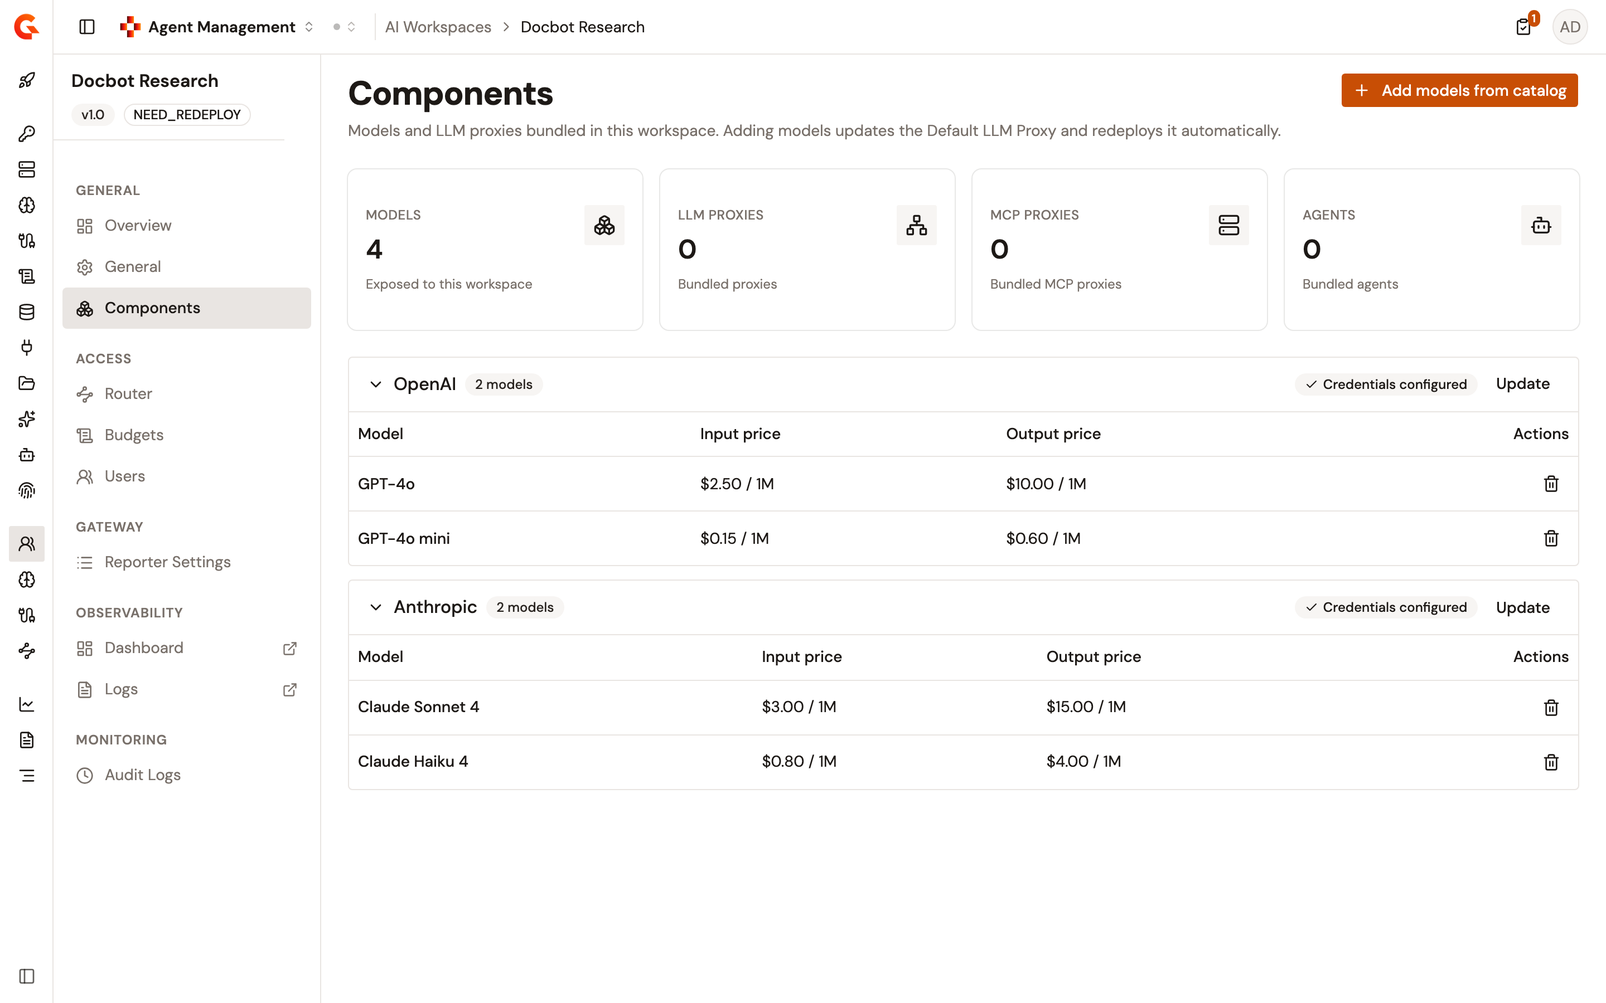
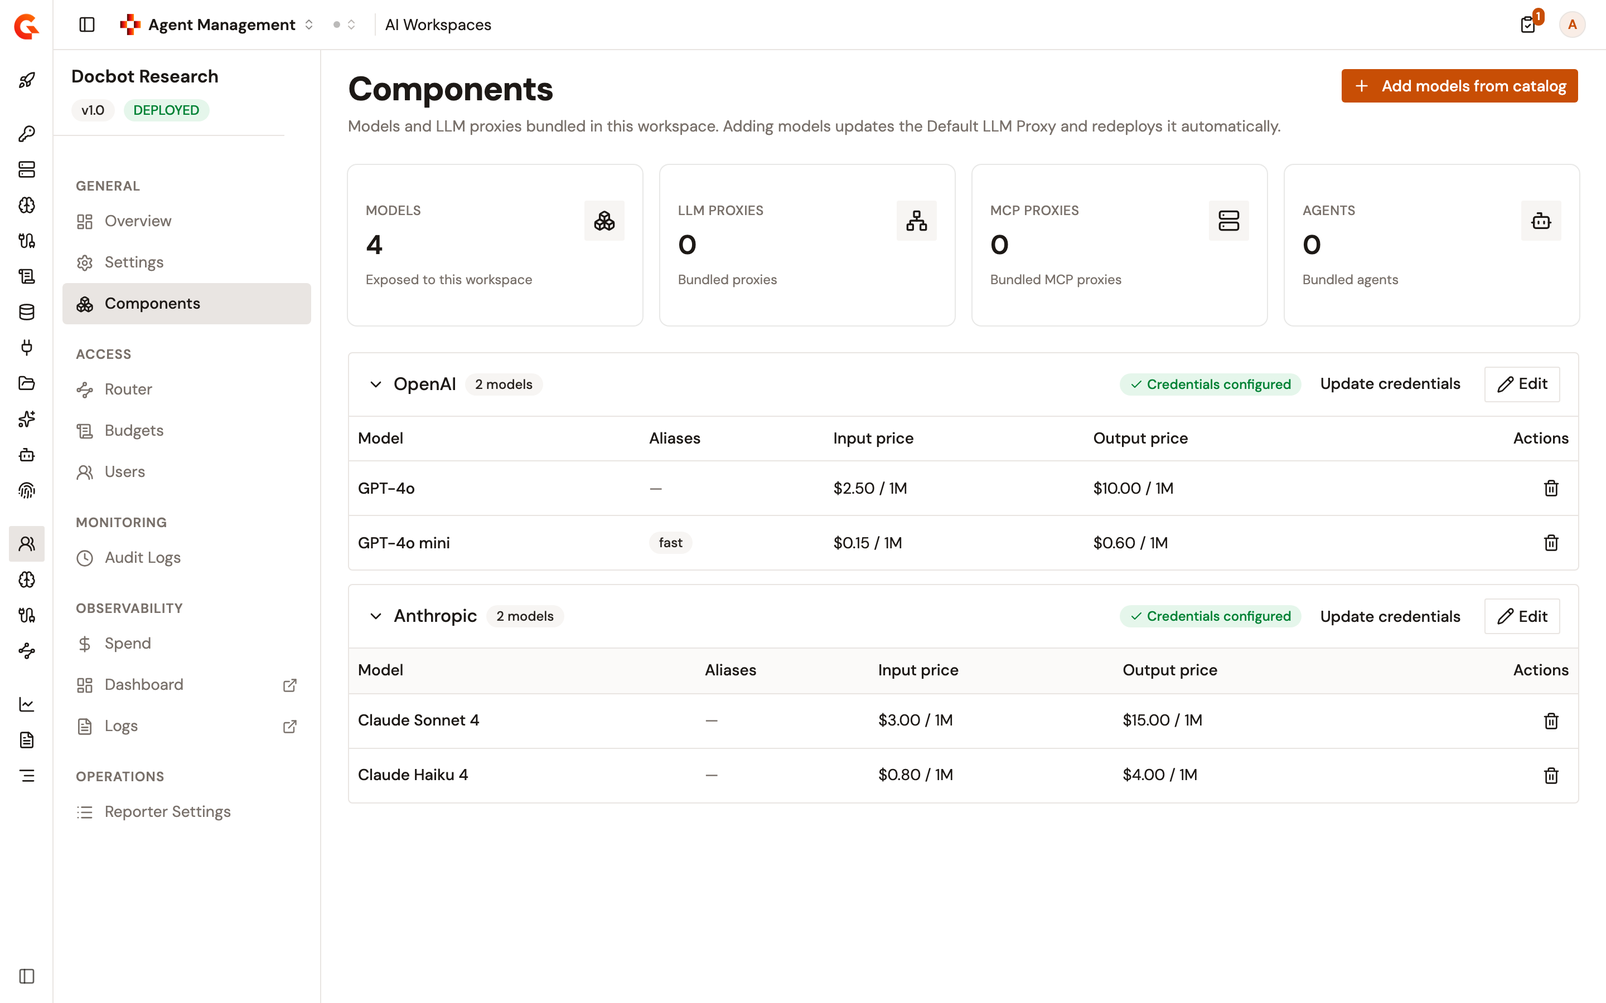
docs(gamma): document the AI Workspace router and AI Routing (AIAM-76)
Add the Router page of an AI Workspace and the AI Routing policy, which
routes a member's requests by the share of their budget spent. Add model
aliases to the Components page, link the budgets page to the router, and
add the 4.13 release-notes entry. Capture the router, its Configuration
panel and Model list, and recapture the Components page and the AI
Workspaces list from a local 4.13 stack with synthetic data.

diff --git a/docs/gamma/4.13/agent-management/build/configure-ai-workspace-routing.md b/docs/gamma/4.13/agent-management/build/configure-ai-workspace-routing.md
@@ -1,0 +1,153 @@
+---
+hidden: false
+noIndex: false
+description: Route each AI Workspace request to a model chosen by how much of the member's budget is spent, and chain the policies every call of the workspace runs.
+---
+
+# Configure AI workspace routing
+
+The **Router** page of an AI Workspace holds the policies that run on every call to the workspace, whatever budget the member is on. An **AI Routing** step on that page chooses the model that serves a request from the share of the member's budget already spent. As a member spends, their requests move to the models you set for the next band. The cost budget still stops them at its ceiling. See [Manage AI workspace budgets](manage-ai-workspace-budgets.md).
+
+## How routing chooses a model
+
+An **AI Routing** step holds bands, ordered from a full budget to a spent one. Each band starts where the band above it stops, and lists the models it routes to:
+
+* A request goes to the first band whose limit is above the member's spent share. With a first band limited at `50`, members who have spent less than 50% of their budget are served by that band.
+* The last band has no limit and serves everything left.
+* The share counts the spend the budget has recorded plus an estimate for each of the member's calls still in progress, the current one included. A band can therefore apply earlier than the recorded spend alone suggests.
+* The model the band picks replaces the model named in the request, even a model the workspace doesn't hold. This applies on the `/chat/completions`, `/responses`, `/embeddings`, and `/count_tokens` paths alike, so a band of chat models also takes the members' `/embeddings` calls.
+* Only the model the band picks is called. The other models of the band aren't tried when that call fails.
+
+When a band lists several models, its strategy picks one per request. A band with no strategy selected rotates per request:
+
+<table>
+    <thead>
+        <tr>
+            <th width="260">Strategy</th>
+            <th>How the model is picked</th>
+        </tr>
+    </thead>
+    <tbody>
+        <tr>
+            <td><strong>Rotate per request (per gateway node)</strong></td>
+            <td>Each model in turn. Every gateway node keeps its own rotation.</td>
+        </tr>
+        <tr>
+            <td><strong>Weighted - share out by the weights below</strong></td>
+            <td>In proportion to each model's <strong>Weight</strong>. A model weighted <code>3</code> serves three times as many requests as a model weighted <code>1</code>. Only this strategy reads the weights.</td>
+        </tr>
+        <tr>
+            <td><strong>Random</strong></td>
+            <td>At random.</td>
+        </tr>
+    </tbody>
+</table>
+
+Two settings of the step cover the requests the bands don't decide:
+
+* **If the budget is unknown** applies when the spent share can't be read, for example when the budget's counter can't be reached. The default is **Route to the last band**. The other options are **Route to the first band** and **Leave the request on the model it asked for**.
+* **When a band has no models** defaults to **Leave the request on the model it asked for**. Choose **Reject the request with 503** to refuse the requests that reach a band with no models.
+
+If the step itself fails, the request goes to the model it asked for. A band that routes to a model the workspace no longer holds gets the same `model_not_found` refusal as a request that names an unknown model. See [What members can call](add-models-to-an-ai-workspace.md#what-members-can-call).
+
+## Open the Router page
+
+To open the **Router** page of a workspace, complete the following steps:
+
+1. From the Gamma console sidebar, open **Agent Management**.
+2. Under **Secure**, open **AI Workspaces**.
+3. Select the workspace.
+4. Under **Access**, click **Router**.
+
+    <figure><img src="../.gitbook/assets/gamma-aim-ai-workspace-router-empty.png" alt="The Router page of a workspace with no policies, showing the Policies list, the Request phase, Budget gate, Models, and Response phase boxes, and the Configuration panel"><figcaption><p>The Router page before any policy is added</p></figcaption></figure>
+
+A policy placed above **Models** runs on the request, after the **Budget gate** checks the member's budget. A policy placed below **Models** runs on the response. The arrows between the boxes set the order.
+
+## Add an AI Routing step
+
+To route requests by the share of budget spent, complete the following steps:
+
+1. In **Policies**, drag **AI Routing** onto the canvas above **Models**. The policy runs on the request only.
+2. Select the **AI Routing** box, and in **Configuration**, set **If the budget is unknown** and **When a band has no models**.
+
+    The form also lists **Bands**, but the band boxes on the canvas replace them when you save. Edit bands on the canvas.
+
+    <figure><img src="../.gitbook/assets/gamma-aim-ai-workspace-router-step-config.png" alt="The Configuration panel for the AI Routing step, with Runs on set to Request, the step name, the Enabled switch, and the Budget measure and If the budget is unknown settings"><figcaption><p>The Configuration panel of the AI Routing step</p></figcaption></figure>
+
+3. On the **AI Routing** box, click **Band**. Repeat for each band you need.
+4. In **Up to** on each band, set the share of the budget spent, as a percentage, where the band stops. A new band arrives with a limit already filled in. Give each band a higher limit than the band above it.
+5. On the last band, clear **Up to** or enter `100`. The band then reads **Everything left**.
+6. Optional: Enter a name for a band. The name replaces the band's default title, and the policy uses it in its logs.
+7. In **Strategy**, select how the band picks a model.
+8. Click **Model** on the band, and select a model. Repeat to add more. The list holds the models of the workspace and their aliases.
+
+    <figure><img src="../.gitbook/assets/gamma-aim-ai-workspace-router-model-menu.png" alt="The Model list open on the Economy band, listing the models of the workspace and the alias fast for GPT-4o mini"><figcaption><p>The Model list of a band</p></figcaption></figure>
+
+9. For the **Weighted - share out by the weights below** strategy, set the **Weight** of each model.
+10. Click **Save**.
+11. In the **This API is out of sync** banner, click **Deploy**.
+12. In the **Deploy your API** dialog, click **Deploy**.
+
+Saving writes the router to every budget of the workspace, and a budget you create later starts with it. Saving doesn't deploy, so the change reaches the gateway only when you deploy the workspace.
+
+When a budget carries routing that differs from the router, the page reports **Some budgets are running different routing** and names the budgets. The alert names only the budgets you can view, but saving rewrites every budget of the workspace.
+
+## Fix the messages that block Save
+
+**Save** stays unavailable while the canvas reports a problem, and while the **Configuration** form of the selected step holds an invalid value. A badge beside **Router** counts the problems, and its tooltip lists them:
+
+<table>
+    <thead>
+        <tr>
+            <th width="330">Message</th>
+            <th>Fix</th>
+        </tr>
+    </thead>
+    <tbody>
+        <tr>
+            <td><code>"&lt;box&gt;" leads to &lt;n&gt; boxes.</code></td>
+            <td>Keep one outgoing arrow on each box.</td>
+        </tr>
+        <tr>
+            <td><code>The chain never reaches Models.</code></td>
+            <td>Draw the arrows from <strong>Request phase</strong> through to <strong>Models</strong>.</td>
+        </tr>
+        <tr>
+            <td><code>The arrows loop back on themselves.</code></td>
+            <td>Remove the arrow that closes the loop.</td>
+        </tr>
+        <tr>
+            <td><code>"&lt;policy&gt;" is wired ahead of the Budget gate.</code></td>
+            <td>Move the policy after <strong>Budget gate</strong>.</td>
+        </tr>
+        <tr>
+            <td><code>"&lt;band&gt;" is limited at &lt;n&gt;%, which is no share of the budget.</code></td>
+            <td>Enter a limit above <code>0</code>.</td>
+        </tr>
+        <tr>
+            <td><code>"&lt;band&gt;" is limited at &lt;n&gt;%, which the band above it already covers.</code></td>
+            <td>Raise the limit above the limit of the band before it.</td>
+        </tr>
+        <tr>
+            <td><code>Two bands are named "&lt;name&gt;".</code></td>
+            <td>Rename one of the bands. Names are compared without regard to case.</td>
+        </tr>
+        <tr>
+            <td><code>"&lt;band&gt;" routes to &lt;model&gt; twice.</code></td>
+            <td>Remove the duplicate model from the band.</td>
+        </tr>
+    </tbody>
+</table>
+
+The canvas only warns, without blocking **Save**, when the last band has a limit. Clear that limit. If the last band keeps a limit, the gateway skips the **AI Routing** step, and no request is routed.
+
+## Verification
+
+To verify routing is working as expected, follow these steps:
+
+1. Deploy the workspace after saving the router.
+2. Call the workspace entrypoint with a member's API key. See [Assign users to an AI workspace](assign-users-to-an-ai-workspace.md).
+3. Read the `X-Cost-Rate-Limit-Limit` and `X-Cost-Rate-Limit-Remaining` headers of the response to work out the share of the budget the member has spent.
+4. Confirm the `model` field of the response names a model of the band that share falls in.
+
+    <figure><img src="../.gitbook/assets/gamma-aim-ai-workspace-router.png" alt="The Router page with an AI Routing step named Budget routing and three bands, Full budget up to 50%, Economy up to 80%, and Last stretch for everything left, each routing to its models"><figcaption><p>A router with three bands</p></figcaption></figure>

diff --git a/docs/gamma/4.13/platform-management/gamma-release-notes.md b/docs/gamma/4.13/platform-management/gamma-release-notes.md
@@ -10,7 +10,7 @@ The 4.13 release adds the following capabilities.
 
 ### Agent Management
 
-Agent Management adds AI Workspaces. A workspace gives a team governed access to a chosen set of models, with a per-member spending budget and a separate API key for every member. Each workspace reports what it spends by user, budget, and model, and exports the user and model rankings as a CSV file. It also adds API resource configuration, consumer broadcasts, property import, dynamic property sync, and API metadata to each proxy detail view, and brings plans and subscriptions to A2A Proxies. The **Consumers** page of each proxy exports its subscription list as a CSV file. The LLM Proxy detail view gains an Entrypoints page, a CORS page, a Failover page, a regrouped navigation, and a **Models** page that edits providers after creation. The provider forms of the wizard and of the **Models** page render the LLM Proxy plugin's own schema. Agent Management also shows the owner, sharding tags, and picture of each proxy in the LLM Proxies list, and lets you record a negotiated price on a cataloged AI model. The **Cost Rate Limit** policy caps what a consumer spends on an LLM Proxy in dollars over a period. LLM Proxies and A2A Proxies gain export, import, and duplicate actions, and A2A Proxies gain response templates that override the errors the AI Gateway returns. The Observability section of Agent Management builds and saves custom dashboards alongside the templates. Edge Management's shadow AI detections also reach the Catalog, where each intercepted domain becomes a shadow AI agent whose page shows the processes and devices that reached it.
+Agent Management adds AI Workspaces. A workspace gives a team governed access to a chosen set of models, with a per-member spending budget and a separate API key for every member. Each workspace reports what it spends by user, budget, and model, and exports the user and model rankings as a CSV file. Its router moves a member's requests to other models as they spend their budget. It also adds API resource configuration, consumer broadcasts, property import, dynamic property sync, and API metadata to each proxy detail view, and brings plans and subscriptions to A2A Proxies. The **Consumers** page of each proxy exports its subscription list as a CSV file. The LLM Proxy detail view gains an Entrypoints page, a CORS page, a Failover page, a regrouped navigation, and a **Models** page that edits providers after creation. The provider forms of the wizard and of the **Models** page render the LLM Proxy plugin's own schema. Agent Management also shows the owner, sharding tags, and picture of each proxy in the LLM Proxies list, and lets you record a negotiated price on a cataloged AI model. The **Cost Rate Limit** policy caps what a consumer spends on an LLM Proxy in dollars over a period. LLM Proxies and A2A Proxies gain export, import, and duplicate actions, and A2A Proxies gain response templates that override the errors the AI Gateway returns. The Observability section of Agent Management builds and saves custom dashboards alongside the templates. Edge Management's shadow AI detections also reach the Catalog, where each intercepted domain becomes a shadow AI agent whose page shows the processes and devices that reached it.
 
 #### AI Workspaces
 
@@ -33,6 +33,17 @@ Agent Management adds AI Workspaces. A workspace gives a team governed access to
 * The **Budget** column of the **Users** page shows the share of the budget each member has used over the budget period.
 * The AI Workspace Overview dashboard template charts requests, error rate, response time, tokens, and cost, with top-five breakdowns by model and by user. The **Dashboard** and **Logs** items of a workspace open the dashboard and the logs in a new tab, filtered to that workspace.
 * See [Track AI workspace spend](../agent-management/build/track-ai-workspace-spend.md) and [Monitor your AI workspaces](../agent-management/observe/monitor-your-ai-workspaces.md).
+
+#### Router and AI Routing for AI Workspaces
+
+* The **Router** page of each AI Workspace chains the policies every call of the workspace runs, whatever budget the member is on. Drag a policy from **Policies** onto the canvas and draw the arrows to set the order. Saving writes the router to every budget, and deploying the workspace applies it.
+* The **AI Routing** policy picks the model that serves a request from the share of the member's budget already spent. Each band covers the share up to its limit and lists the models it routes to, and the last band catches everything left. The model it picks replaces the model the request names.
+* A band with several models picks one per request by rotating per gateway node, by weight, or at random.
+* **If the budget is unknown** and **When a band has no models** decide the requests the bands don't, including rejecting a request with `503`.
+* The canvas blocks **Save** while the chain can't run or two bands conflict, and lists the problems. A last band with a limit raises only a warning, and the gateway then skips the **AI Routing** step.
+* Each model of a workspace takes aliases on the **Components** page, and a routing band routes to an alias like any model.
+* The AI Workspaces list adds a search field, sorting by **Name** and **Version**, and paging, and the **Budgets** page pages too.
+* See [Configure AI workspace routing](../agent-management/build/configure-ai-workspace-routing.md).
 
 #### API Resources for LLM, MCP, and A2A Proxies
 

diff --git a/docs/gamma/4.13/agent-management/build/add-models-to-an-ai-workspace.md b/docs/gamma/4.13/agent-management/build/add-models-to-an-ai-workspace.md
@@ -35,6 +35,18 @@ To add models to an AI Workspace, complete the following steps:
 
 The **Components** page then lists the models grouped by provider, with a **Credentials configured** badge on each provider, and the **Models** card counts the models exposed to the workspace. The **LLM Proxies**, **MCP Proxies**, and **Agents** cards beside it always read `0`.
 
+## Give a model an alias
+
+An alias is another name for a model that members send in their requests. The workspace lists its aliases on the `/models` path, and a routing band routes to an alias like any model. To give a model an alias, complete the following steps:
+
+1. On the **Components** page of the workspace, click **Edit** on the provider of the model.
+2. In **Aliases** for the model, enter the other names for the model. An alias can't contain `:`.
+3. Click **Save changes**.
+
+Saving deploys the change. The **Components** page then lists the aliases of each model in the **Aliases** column.
+
+Members send an alias the way the `/models` path lists it. With **Prefix policy** at its default, **Model names and aliases**, that's the alias with the provider's prefix. To let members send the alias alone, choose **Model names only** or **None** in **Prefix policy** of the same form.
+
 ## Remove a model
 
 Removing a model from the **Components** page takes it out of the Default LLM Proxy, so members can no longer call it.
@@ -60,6 +72,8 @@ A request that names a model the workspace doesn't hold is refused on the `/chat
 
 Requests on other paths are passed to the upstream provider without model resolution. The `/models` path lists the models the workspace exposes.
 
+When an **AI Routing** step on the **Router** page picks the model for a request, that model replaces the one the request names. A request that names a model the workspace doesn't hold is then served by the band's model, as long as the band routes to a model the workspace holds. See [Configure AI workspace routing](configure-ai-workspace-routing.md).
+
 ## Verification
 
 To verify the models are available to the workspace, follow these steps:
@@ -70,4 +84,4 @@ To verify the models are available to the workspace, follow these steps:
 4. Call the `/models` path of the entrypoint URL with that key, and confirm the response lists the models you added.
 5. Call the `/chat/completions` path with a model the workspace doesn't hold, and confirm the gateway returns `400` with the `model_not_found` code.
 
-    <figure><img src="../.gitbook/assets/gamma-aim-ai-workspace-components-models.png" alt="The Components page of a workspace listing four models grouped under the OpenAI and Anthropic providers"><figcaption><p>Models grouped by provider on the Components page</p></figcaption></figure>
+    <figure><img src="../.gitbook/assets/gamma-aim-ai-workspace-components-models.png" alt="The Components page of a workspace listing four models grouped under the OpenAI and Anthropic providers, with the Aliases column showing the alias fast on GPT-4o mini"><figcaption><p>Models grouped by provider on the Components page</p></figcaption></figure>

diff --git a/docs/gamma/4.13/agent-management/build/manage-ai-workspace-budgets.md b/docs/gamma/4.13/agent-management/build/manage-ai-workspace-budgets.md
@@ -96,7 +96,7 @@ Adding and removing models don't use this banner. Gravitee deploys the Default L
 
 Every budget carries the routing configured for the workspace. A member's calls run that routing alongside the cost budget and the request rate limit of the budget they're on. Creating a budget on this page copies the current routing of the workspace onto it. The `Default` budget a workspace starts with carries no routing, because the workspace has none to inherit yet.
 
-The **Router** page under **Access** edits that routing for the workspace. Where a budget carries routing that differs from it, the page reports **Some budgets are running different routing** and names the budgets. Saving the router replaces what those budgets carry. Saving doesn't deploy, so the out-of-sync banner still applies.
+The **Router** page under **Access** edits that routing for the workspace. Where a budget carries routing that differs from it, the page reports **Some budgets are running different routing** and names the budgets. Saving the router replaces what those budgets carry. Saving doesn't deploy, so the out-of-sync banner still applies. To route a member's requests by the share of their budget spent, see [Configure AI workspace routing](configure-ai-workspace-routing.md).
 
 ## Verification
 

diff --git a/docs/gamma/4.13/agent-management/build/ai-workspaces/README.md b/docs/gamma/4.13/agent-management/build/ai-workspaces/README.md
@@ -12,6 +12,7 @@ The workspace owns one Default LLM Proxy. Gravitee creates it when you add the f
 
 * [**Create an AI workspace**](../create-an-ai-workspace.md). Name the workspace, derive its gateway path, and set the default budget its members start on.
 * [**Add models to an AI workspace**](../add-models-to-an-ai-workspace.md). Add catalog models to the workspace, and control which models its members can call.
+* [**Configure AI workspace routing**](../configure-ai-workspace-routing.md). Route each request to a model chosen by how much of the member's budget is spent, and chain the policies every call runs.
 * [**Manage AI workspace budgets**](../manage-ai-workspace-budgets.md). Cap what each member spends per period, and optionally cap how fast they send requests.
 * [**Assign users to an AI workspace**](../assign-users-to-an-ai-workspace.md). Add members, give each one an API key, change the budget they're metered against, and review their usage.
 * [**Track AI workspace spend**](../track-ai-workspace-spend.md). Rank the users, budgets, and models of a workspace by spend, drill into one user, and export the user and model rankings as a CSV file.

diff --git a/docs/gamma/4.13/agent-management/build/create-an-ai-workspace.md b/docs/gamma/4.13/agent-management/build/create-an-ai-workspace.md
@@ -18,7 +18,7 @@ To create an AI Workspace, complete the following steps:
 2. Under **Secure**, select **AI Workspaces**.
 3. Select **+ Create AI workspace**.
 
-    <figure><img src="../.gitbook/assets/gamma-aim-ai-workspaces-list.png" alt="The AI Workspaces list with three workspaces, the Workspaces, Deployed and Owners cards, and the Create AI workspace button"><figcaption><p>The AI Workspaces list</p></figcaption></figure>
+    <figure><img src="../.gitbook/assets/gamma-aim-ai-workspaces-list.png" alt="The AI Workspaces list with three workspaces, the Workspaces, Deployed, and Owners cards, the search field, and the Create AI workspace button"><figcaption><p>The AI Workspaces list</p></figcaption></figure>
 
 4. In the **Details** section, complete the following fields:
 

diff --git a/docs/gamma/4.13/SUMMARY.md b/docs/gamma/4.13/SUMMARY.md
@@ -169,6 +169,7 @@
   * [AI Workspaces](agent-management/build/ai-workspaces/README.md)
     * [Create an AI workspace](agent-management/build/create-an-ai-workspace.md)
     * [Add models to an AI workspace](agent-management/build/add-models-to-an-ai-workspace.md)
+    * [Configure AI workspace routing](agent-management/build/configure-ai-workspace-routing.md)
     * [Manage AI workspace budgets](agent-management/build/manage-ai-workspace-budgets.md)
     * [Assign users to an AI workspace](agent-management/build/assign-users-to-an-ai-workspace.md)
     * [Track AI workspace spend](agent-management/build/track-ai-workspace-spend.md)

diff --git a/docs/gamma/4.13/agent-management/SUMMARY.md b/docs/gamma/4.13/agent-management/SUMMARY.md
@@ -28,6 +28,7 @@
   * [AI Workspaces](build/ai-workspaces/README.md)
     * [Create an AI workspace](build/create-an-ai-workspace.md)
     * [Add models to an AI workspace](build/add-models-to-an-ai-workspace.md)
+    * [Configure AI workspace routing](build/configure-ai-workspace-routing.md)
     * [Manage AI workspace budgets](build/manage-ai-workspace-budgets.md)
     * [Assign users to an AI workspace](build/assign-users-to-an-ai-workspace.md)
     * [Track AI workspace spend](build/track-ai-workspace-spend.md)
